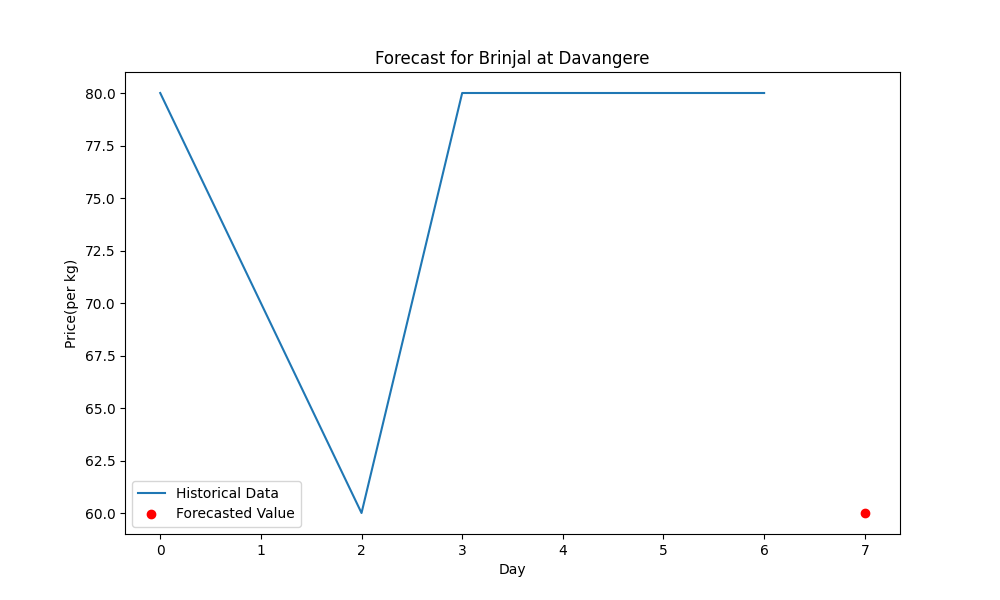
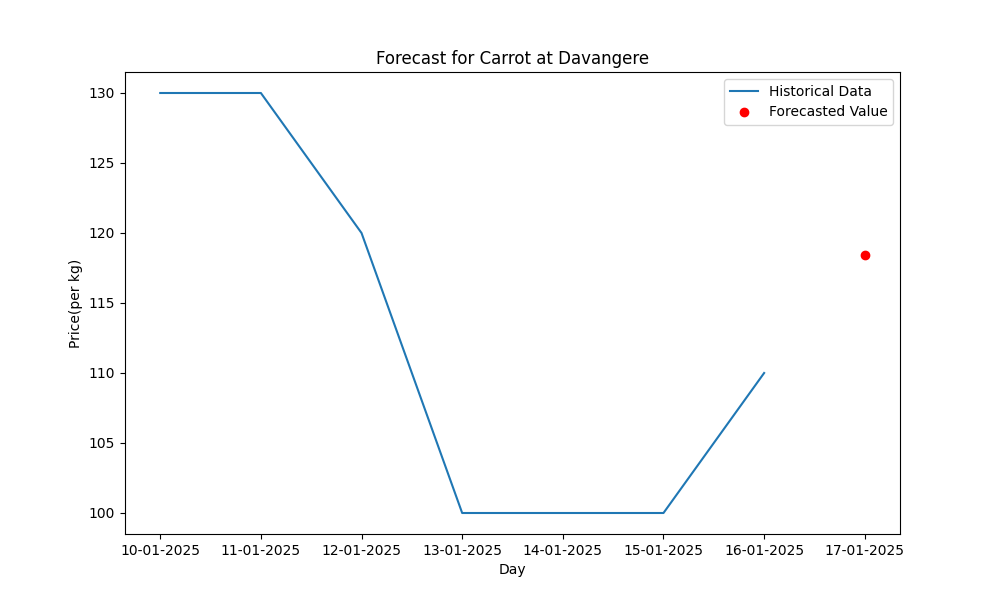
date done

diff --git a/app.py b/app.py
@@ -1,5 +1,6 @@
 from flask import Flask, request, jsonify
 import pandas as pd
+from datetime import datetime, timedelta
 from statsmodels.tsa.arima.model import ARIMA
 import matplotlib
 matplotlib.use('Agg')  # Use non-interactive backend
@@ -36,11 +37,16 @@ def forecast_price():
             return jsonify({"error": "Not enough data points to fit the ARIMA model."}), 400
 
         # Fit ARIMA model
-        model = ARIMA(data, order=(7, 1, 1))
+        model = ARIMA(data, order=(2, 1, 1))
         results = model.fit()
 
         # Forecast the next value
         forecast = results.forecast(steps=1)[0]
+        
+        end_date = datetime.now() 
+        start_date = end_date - timedelta(days=6) 
+        # Generate date labels for the xticks 
+        date_labels = [(start_date + timedelta(days=i)).strftime('%d-%m-%Y') for i in range(8)]
 
         # Plot and save the graph
         plt.figure(figsize=(10, 6))
@@ -49,6 +55,7 @@ def forecast_price():
         plt.title(f'Forecast for {crop_name} at {location}')
         plt.xlabel('Day')
         plt.ylabel('Price(per kg)')
+        plt.xticks(ticks=range(8), labels=date_labels)
         plt.legend()
         save_path = os.path.join("graphsimgs", "forecast_graph.png")
         if not os.path.exists("graphsimgs"):
@@ -58,7 +65,7 @@ def forecast_price():
 
         # Return results
         return jsonify({
-            "forecasted_price": round(forecast, 2),
+            "forecasted_price": round(forecast),
             "graph_path": save_path
         })
     except Exception as e:
